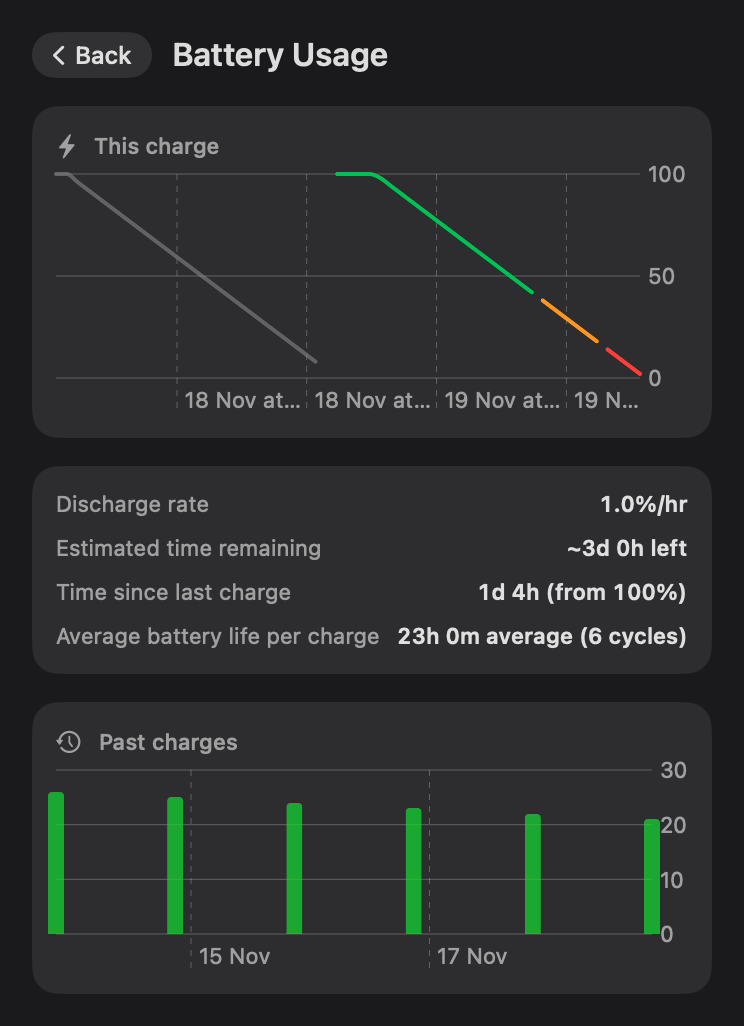
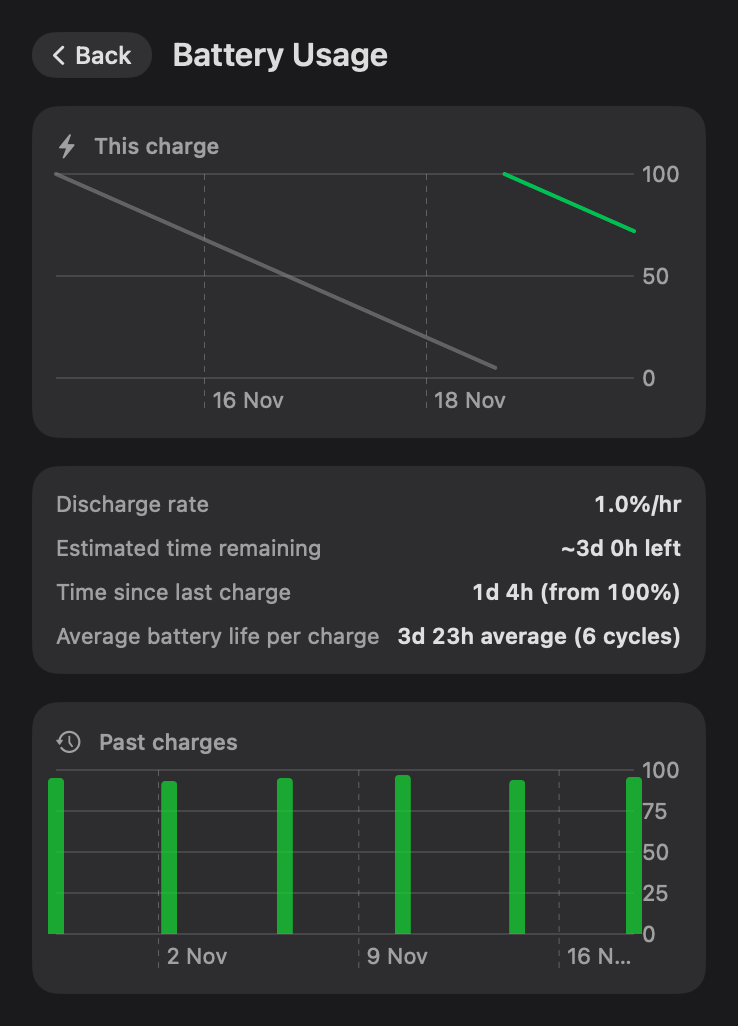
Preview battery data that agrees with itself, and render comments in place
The current charge now falls 1%/hr from 100% to 72%, and past charges last
about 95h, matching the 1.0%/hr rate and ~3d left shown beside the chart.
The curve used to fall 4%/hr and end near 2%.

writeHostedPNG's doc comment sits on it again, and the activation lines say why
they're there and when they work.

diff --git a/Sources/MacRazer/main.swift b/Sources/MacRazer/main.swift
@@ -126,15 +126,6 @@ extension PopoverLook {
     }
 }
 
-/// Renders through a real `NSHostingView` in a real window instead of `ImageRenderer`.
-///
-/// `ImageRenderer` draws a `ScrollView` as an empty box, since its content is laid out lazily
-/// and never makes it into the snapshot, and it draws native controls as placeholders. A view
-/// hosted in a window draws both as the app does.
-///
-/// `size` is optional: a view that sizes itself, like a window's content, is measured with
-/// `fittingSize`. Only a scroll view has to be told how much room it has, because it will
-/// take whatever it is given.
 /// Runs AppKit's event loop for a while. `RunLoop.run` alone never hands AppKit its events,
 /// and activation and becoming key arrive as events.
 @MainActor func pumpEvents(for seconds: TimeInterval) {
@@ -146,11 +137,22 @@ extension PopoverLook {
     }
 }
 
+/// The window a hosted render is drawn in. A borderless window can't become key on its own,
+/// and the popover is key while someone uses it, so this one can too.
 final class RenderWindow: NSWindow {
     override var canBecomeKey: Bool { true }
     override var canBecomeMain: Bool { true }
 }
 
+/// Renders through a real `NSHostingView` in a real window instead of `ImageRenderer`.
+///
+/// `ImageRenderer` draws a `ScrollView` as an empty box, since its content is laid out lazily
+/// and never makes it into the snapshot, and it draws native controls as placeholders. A view
+/// hosted in a window draws both as the app does.
+///
+/// `size` is optional: a view that sizes itself, like a window's content, is measured with
+/// `fittingSize`. Only a scroll view has to be told how much room it has, because it will
+/// take whatever it is given.
 @MainActor func writeHostedPNG<V: View>(_ view: V, size: CGSize? = nil, look: PopoverLook = .solidDark,
                                         to path: String) {
     // The backdrop the popover or window paints behind its content. `cacheDisplay` captures
@@ -177,7 +179,10 @@ final class RenderWindow: NSWindow {
     // Mac that made it (a P3 laptop panel and an sRGB monitor gave different swatches).
     window.colorSpace = .sRGB
     window.contentView = host
-    window.orderFrontRegardless()
+    // Active and key, as the app is while its popover is open: only then do switches that are
+    // on draw green. macOS lets only a launched app activate itself, so this works when the
+    // render runs from an app bundle opened with `open` (Scripts/render-screenshots.sh). Run
+    // from a terminal, it's ignored and switches draw grey.
     NSApp.finishLaunching()
     NSApp.activate(ignoringOtherApps: true)
     window.makeKeyAndOrderFront(nil)

diff --git a/Sources/MacRazer/MouseController.swift b/Sources/MacRazer/MouseController.swift
@@ -1860,23 +1860,28 @@ final class MouseController: ObservableObject, @unchecked Sendable {
         pollRate = 1000
         timeEstimate = "~3d 0h left (est.)" // matches BatteryHistory.estimateString's real format
         let now = Date()
+        // Every number agrees at 1%/hr: 100% 28h ago, 72% now, ~3d left, and past charges of
+        // about 95h each. The screenshots show the chart and the figures side by side.
         batterySamples = stride(from: 0, through: 28, by: 1).map {
-            BatterySample(t: now.addingTimeInterval(Double($0) * -3600), pct: min(100, 2 + $0 * 4))
+            BatterySample(t: now.addingTimeInterval(Double($0) * -3600), pct: min(100, 72 + $0))
         }.reversed()
         // The charge before it (dimmed context on the usage chart), with a 2h charge gap.
         let previousEnd = now.addingTimeInterval(-30 * 3600)
-        previousCycleSamples = stride(from: 0, through: 24, by: 1).map {
-            BatterySample(t: previousEnd.addingTimeInterval(Double($0) * -3600), pct: min(100, 8 + $0 * 4))
+        previousCycleSamples = stride(from: 0, through: 95, by: 1).map {
+            BatterySample(t: previousEnd.addingTimeInterval(Double($0) * -3600), pct: min(100, 5 + $0))
         }.reversed()
         dischargeRatePerHour = 1.0
         cycleStartedAt = batterySamples.first?.t
         cycleStartedPercent = batterySamples.first?.pct
-        pastCycles = (1...6).map { i in
-            let end = now.addingTimeInterval(Double(-i) * 86400)
-            return ChargeCycleSummary(start: end.addingTimeInterval(-Double(20 + i) * 3600),
-                                       end: end, startPercent: 100, endPercent: 5)
+        let cycleHours: [Double] = [96, 94, 97, 95, 93, 95]
+        var cycleEnd = previousEnd
+        pastCycles = cycleHours.map { hours in
+            let cycle = ChargeCycleSummary(start: cycleEnd.addingTimeInterval(-hours * 3600),
+                                           end: cycleEnd, startPercent: 100, endPercent: 5)
+            cycleEnd = cycle.start.addingTimeInterval(-2 * 3600) // charging in between
+            return cycle
         }
-        averageCycleHours = 23
+        averageCycleHours = 95
         // What the battery usage page reads its time remaining from, matching `timeEstimate`.
         lastBatterySnapshot = LastBatterySnapshot(
             deviceKey: "preview", productID: 0x00DB, deviceName: "Razer Cobra HyperSpeed", percent: 72,
